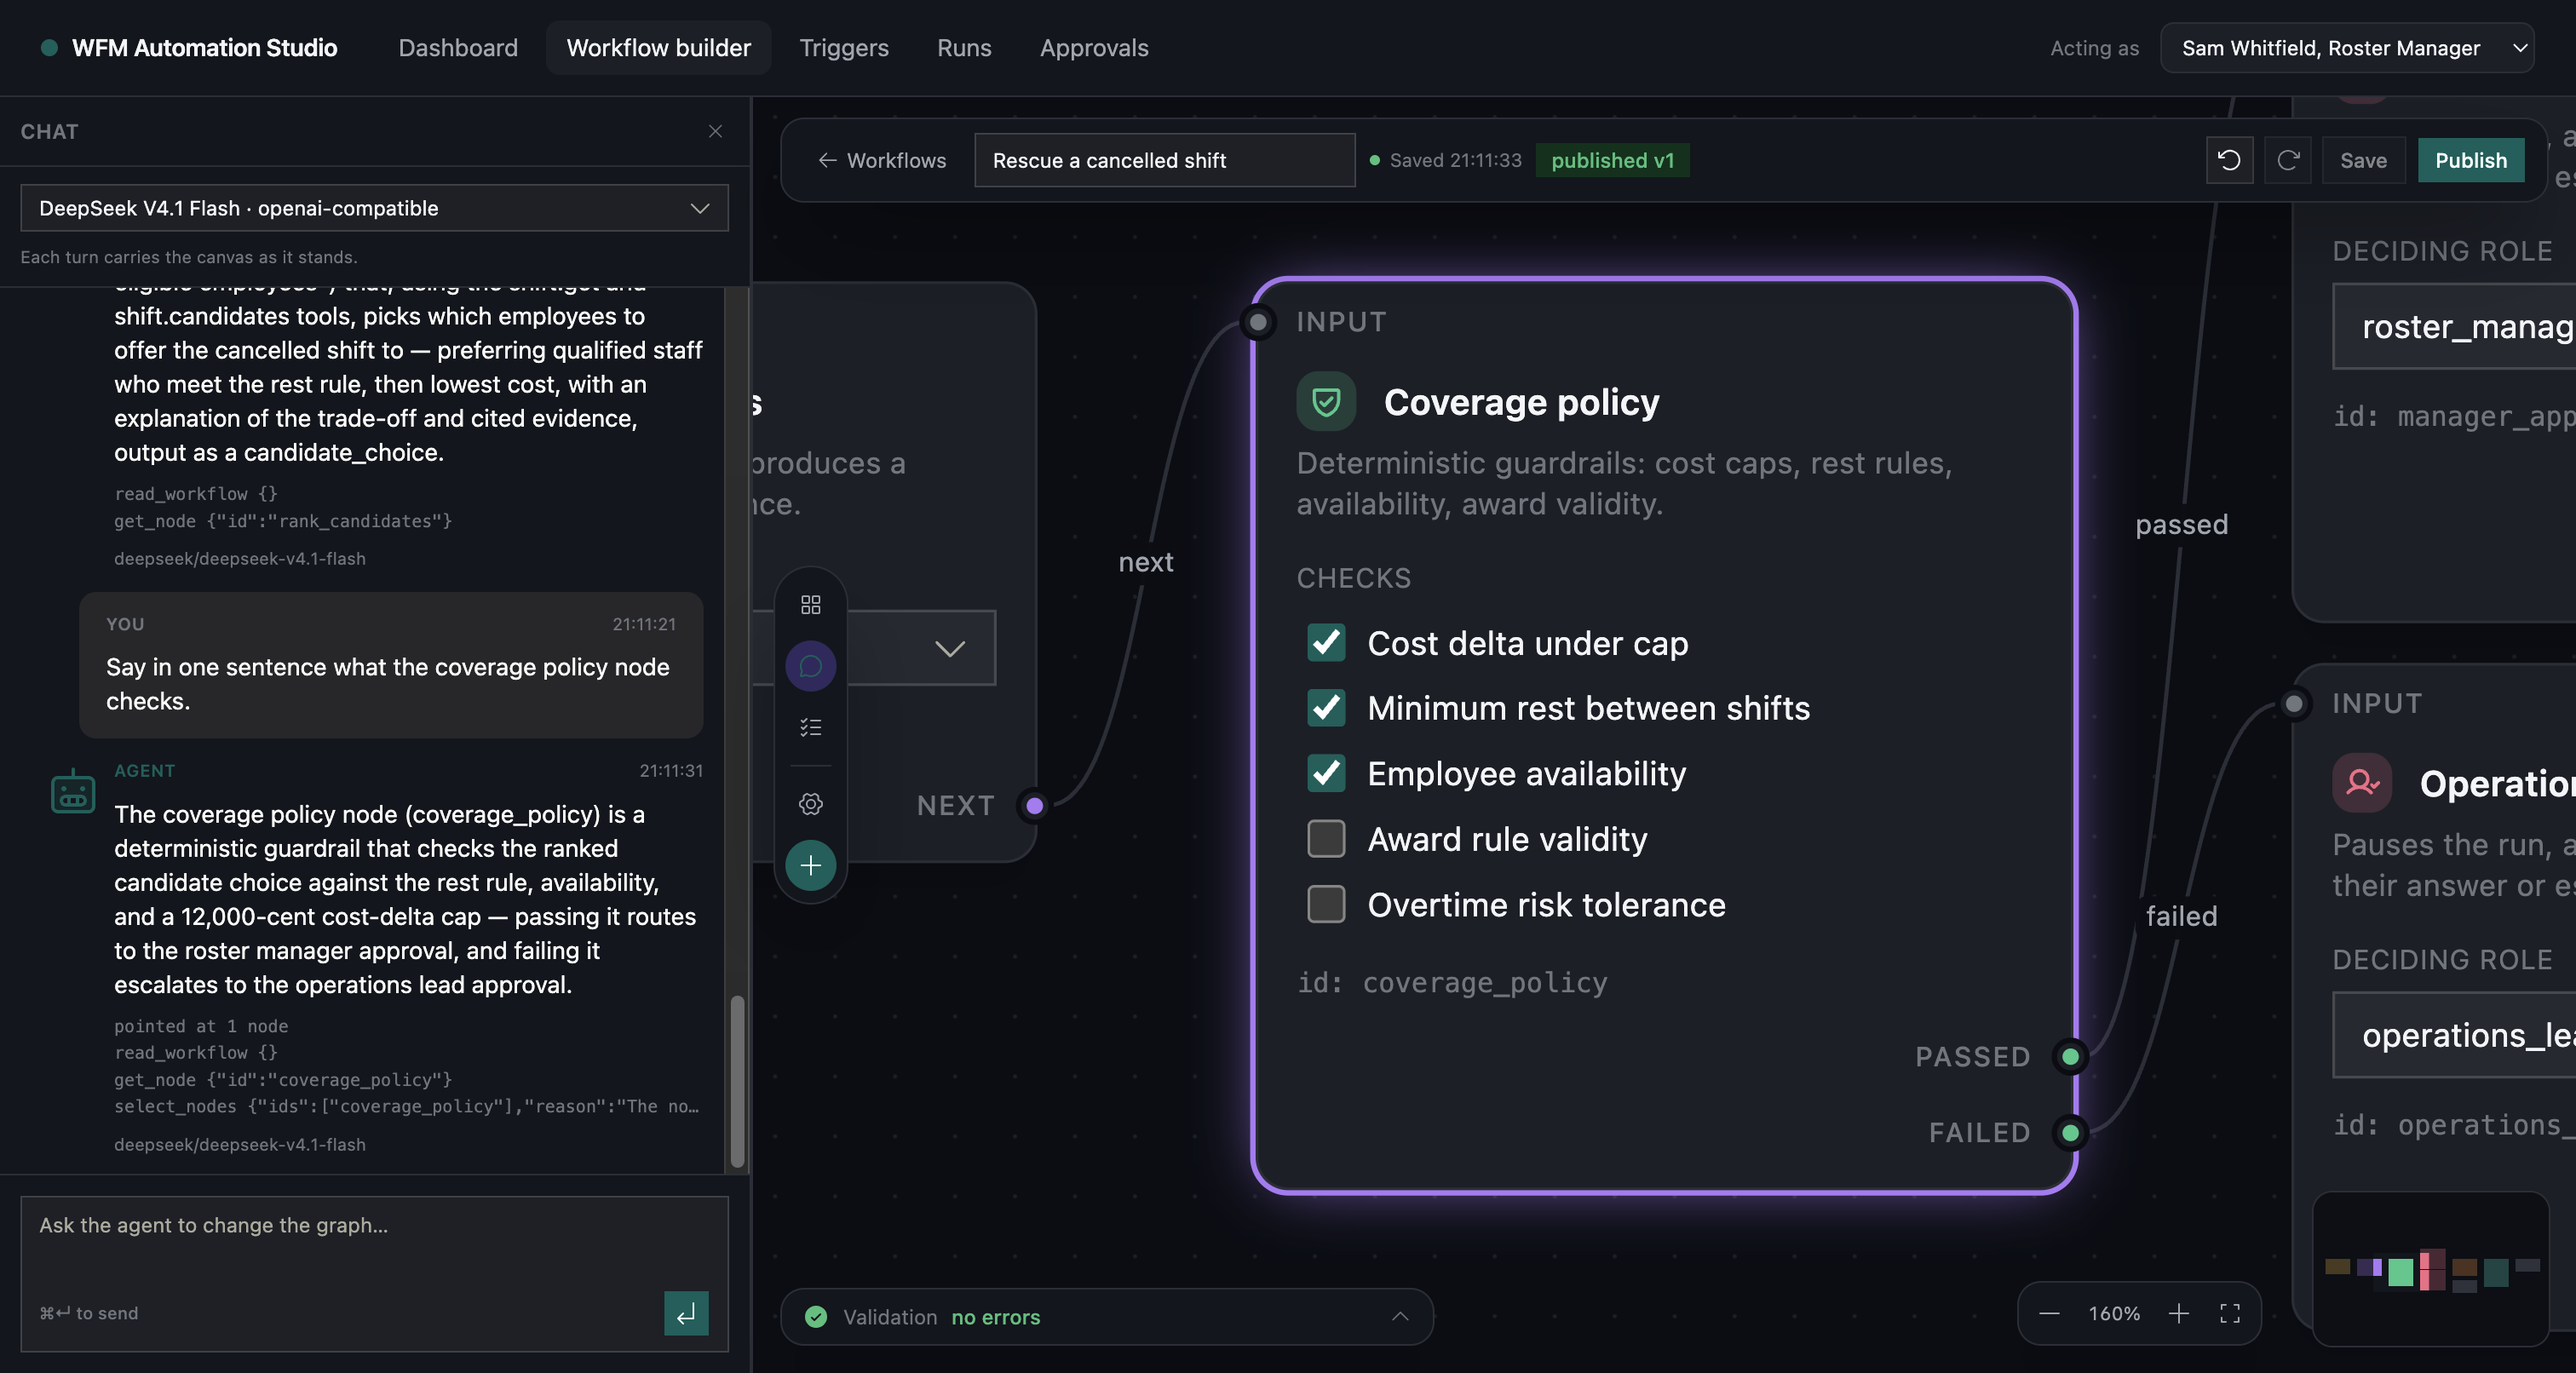
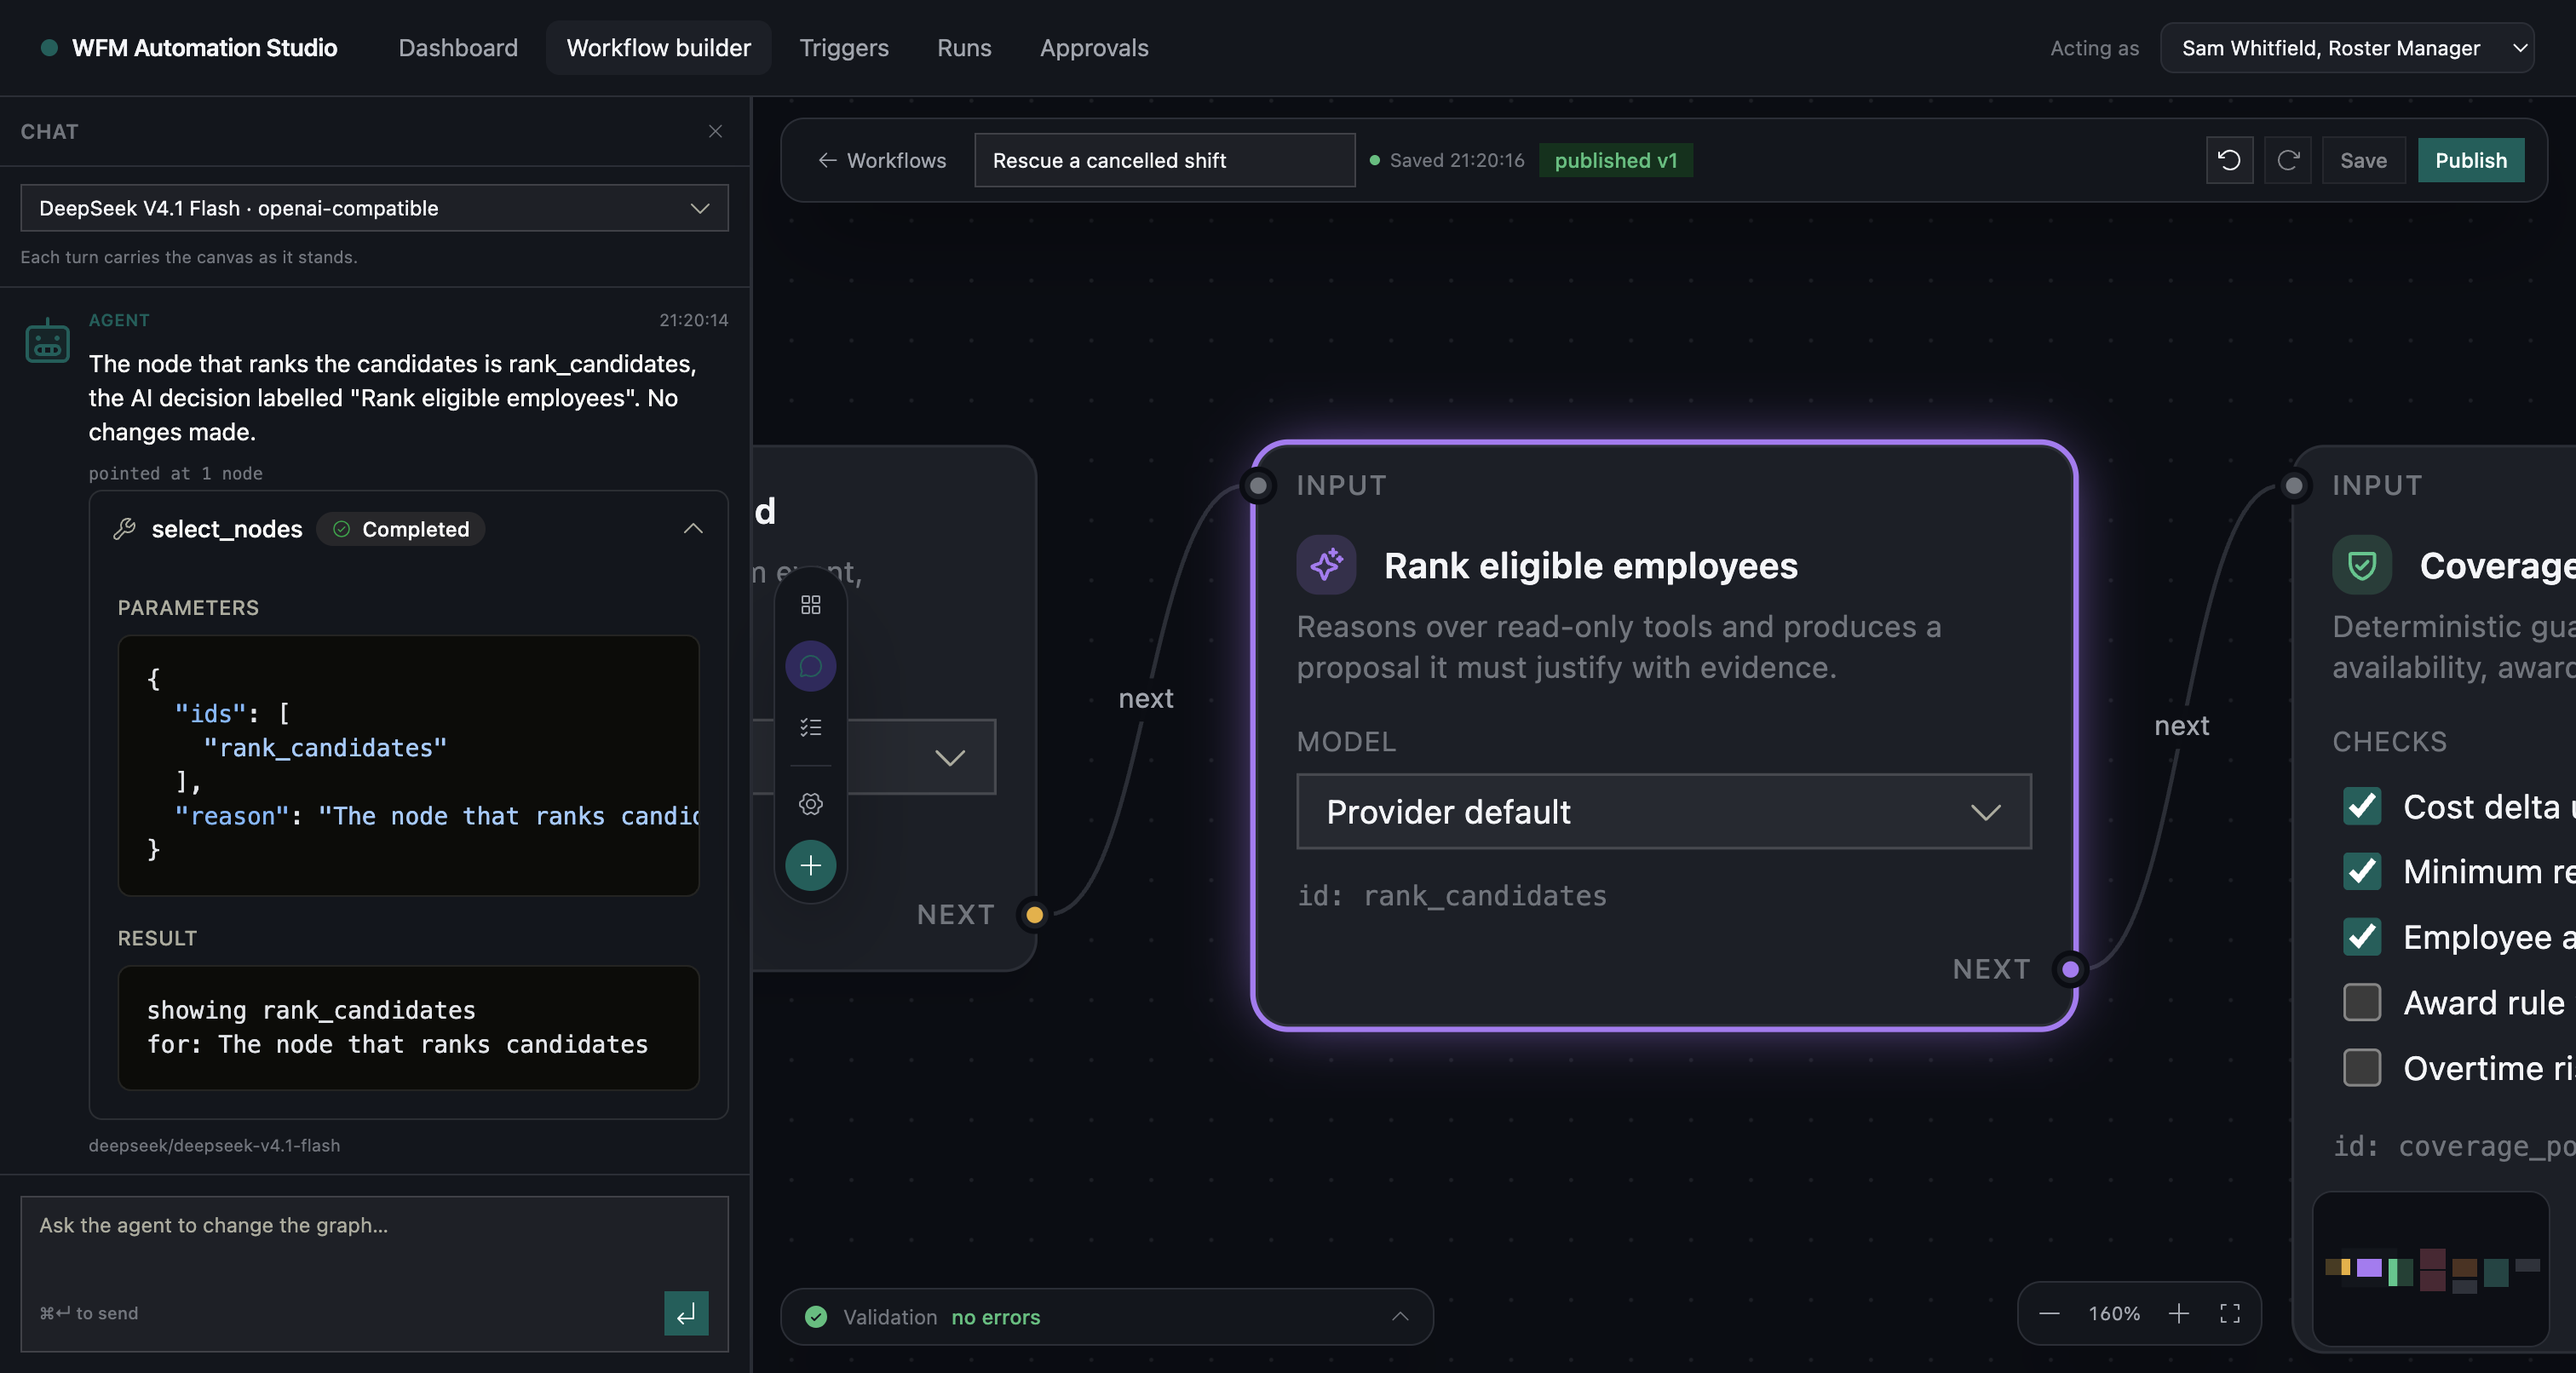
Keep the tool rows openable after the turn
The live turn rendered each call as a row that opens onto its arguments and its
result, and the finished turn fell back to plain text: the calls a turn made
were readable while it ran and gone the moment it answered.

The finished message now carries the calls the live turn collected, so both
render the same rows: the name and its state on the row, the arguments and the
result a click away. Collapsed by default, because a turn that calls a dozen
tools would otherwise push its own answer off the panel; past four calls the
trail is one group that opens onto them.

The calls are read before the update is queued. The setMessages updater runs
after the live turn is cleared, so reading the ref inside it found nothing left
to keep, which is how the first attempt shipped an empty trail.

diff --git a/apps/studio-web/components/builder/chat-panel.tsx b/apps/studio-web/components/builder/chat-panel.tsx
@@ -8,6 +8,7 @@ import type {
   BuilderChatRequest,
   BuilderChatResponse,
   BuilderFocus,
+  BuilderStreamEvent,
   BuilderToolCall,
 } from '@wfm/workflows';
 import { Conversation, ConversationContent, ConversationScrollButton } from '@/components/ai-elements/conversation';
@@ -48,7 +49,8 @@ const STEP_LIMIT = 4;
  * in-memory message rather than being persisted with the conversation.
  */
 interface TurnMessage extends BuilderChatMessage {
-  steps?: readonly string[];
+  /** The calls the turn made, kept from the live turn so the trail stays openable. */
+  calls?: readonly BuilderToolCall[];
   focus?: BuilderFocus;
 }
 
@@ -86,13 +88,18 @@ function AgentRow({ children }: { children: ReactNode }) {
   );
 }
 
-/** A tool call as it happens: what was asked, and what came back. */
+/**
+ * A tool call as it happens and after the turn is over: the name and its state
+ * on the row, the arguments and the result a click away. Collapsed by default,
+ * because a turn that calls a dozen tools would otherwise push its own answer
+ * off the panel.
+ */
 function ToolRow({ call }: { call: BuilderToolCall }) {
   return (
-    <Tool className="mb-0 w-full" defaultOpen>
+    <Tool className="mb-0 w-full">
       <ToolHeader type="dynamic-tool" state={toolState[call.state]} toolName={call.name} />
       <ToolContent>
-        <ToolInput input={call.input} />
+        {call.input !== null && <ToolInput input={call.input} />}
         <ToolOutput errorText={call.error ?? undefined} output={call.output} />
       </ToolContent>
     </Tool>
@@ -117,7 +124,7 @@ function TurnHeader({ role, at }: { role: 'Agent' | 'You'; at?: string }) {
 
 function Turn({ message }: { message: TurnMessage }) {
   const assistant = message.role === 'assistant';
-  const steps = message.steps ?? [];
+  const calls = message.calls ?? [];
   const focus = message.focus === undefined ? null : focusSummary(message.focus);
 
   const content = (
@@ -150,39 +157,32 @@ function Turn({ message }: { message: TurnMessage }) {
             ))}
           </ul>
         )}
-        {assistant && (steps.length > 0 || focus !== null) && (
-          <ul className="flex min-w-0 flex-col gap-0.5 font-mono text-[10px] leading-snug text-[var(--color-ink-faint)]">
+        {assistant && (calls.length > 0 || focus !== null) && (
+          <div className="flex min-w-0 flex-col gap-0.5">
             {focus !== null && (
-              <li className="truncate" title={focus}>
+              <span className="truncate font-mono text-[10px] leading-snug text-[var(--color-ink-faint)]" title={focus}>
                 {focus}
-              </li>
+              </span>
             )}
-            {/* A turn that called a dozen tools would otherwise push its own
-                answer off the panel, so past the limit the trail is a count the
-                author can open when they want the detail. */}
-            {steps.length > STEP_LIMIT ? (
-              <li>
-                <details>
-                  <summary className="cursor-pointer select-none hover:text-[var(--color-ink-muted)]">
-                    {plural(steps.length, 'step')}
-                  </summary>
-                  <ul className="flex min-w-0 flex-col gap-0.5 pt-0.5">
-                    {steps.map((step, index) => (
-                      <li key={`${step}:${index}`} className="truncate" title={step}>
-                        {step}
-                      </li>
-                    ))}
-                  </ul>
-                </details>
-              </li>
+            {/* The same rows the turn showed while it ran, so a call can be
+                opened afterwards to read what it was asked and what it said. */}
+            {calls.length > STEP_LIMIT ? (
+              <details>
+                <summary className="cursor-pointer font-mono text-[10px] leading-snug text-[var(--color-ink-faint)] select-none hover:text-[var(--color-ink-muted)]">
+                  {plural(calls.length, 'step')}
+                </summary>
+                <div className="flex min-w-0 flex-col gap-0.5 pt-1">
+                  {calls.map((call) => (
+                    <ToolRow key={call.id} call={call} />
+                  ))}
+                </div>
+              </details>
             ) : (
-              steps.map((step, index) => (
-                <li key={`${step}:${index}`} className="truncate" title={step}>
-                  {step}
-                </li>
+              calls.map((call) => (
+                <ToolRow key={call.id} call={call} />
               ))
             )}
-          </ul>
+          </div>
         )}
         {assistant && message.model !== null && (
           <span className="text-[10px] text-[var(--color-ink-faint)]">{message.model}</span>
@@ -248,6 +248,20 @@ export function ChatPanel({
   const headersRef = useRef(headers);
   headersRef.current = headers;
   const inFlightRef = useRef<AbortController | null>(null);
+  /** The live turn, readable from the stream callback without a stale render. */
+  const liveRef = useRef<LiveTurn | null>(null);
+
+  const pushLive = (event: BuilderStreamEvent): void => {
+    const next = applyStreamEvent(liveRef.current ?? emptyLiveTurn, event);
+    liveRef.current = next;
+    setLive(next);
+  };
+
+  const clearLive = (): void => {
+    liveRef.current = null;
+    setLive(null);
+  };
+
   /** A send that lands before the history read does not get overwritten by it. */
   const sentRef = useRef(false);
 
@@ -338,6 +352,7 @@ export function ChatPanel({
       ]);
       setError(null);
       setLive(emptyLiveTurn);
+      liveRef.current = emptyLiveTurn;
       setSending(true);
 
       const controller = new AbortController();
@@ -353,12 +368,15 @@ export function ChatPanel({
           (event) => {
             if (event.type === 'focus') {
               onFocus(event.focus);
-              setLive((previous) => (previous === null ? previous : applyStreamEvent(previous, event)));
+              pushLive(event);
               return;
             }
             if (event.type === 'done') {
               finished = true;
               const response = event.response;
+              // Read before the update is queued: the updater runs after the
+              // live turn is cleared, so it would find nothing left to keep.
+              const calls = liveRef.current?.calls ?? [];
               setMessages((previous) => [
                 ...previous,
                 {
@@ -369,7 +387,7 @@ export function ChatPanel({
                   model: response.model,
                   applied: response.applied,
                   rejected: response.rejected,
-                  steps: response.steps,
+                  calls,
                   focus: response.focus,
                 },
               ]);
@@ -378,26 +396,26 @@ export function ChatPanel({
                 response.diagnostics,
                 response.focus,
               );
-              setLive(null);
+              clearLive();
               return;
             }
             if (event.type === 'error') {
               setError(event.message);
-              setLive(null);
+              clearLive();
               return;
             }
-            setLive((previous) => applyStreamEvent(previous ?? emptyLiveTurn, event));
+            pushLive(event);
           },
           controller.signal,
         );
         if (!finished && !controller.signal.aborted) {
           setError('The turn ended before the agent answered.');
-          setLive(null);
+          clearLive();
         }
       } catch (cause) {
         // A stop the reader asked for is not a failure to report.
         if (!controller.signal.aborted) setError(failureLine(cause));
-        setLive(null);
+        clearLive();
       } finally {
         // A turn that was stopped and replaced must not clear the new one's state.
         if (inFlightRef.current === controller) {

diff --git a/README.md b/README.md
@@ -82,7 +82,7 @@ totals are compared against the `llm_calls` rows, not against a number the engin
 - **Steering, not just approving.** A decision carries three things: the decision routes the graph, the reason goes to the audit trail, and the feedback becomes the next human message in the run. Downstream AI nodes decide with the approver's instruction in front of them, and `{{run.feedback}}` lets an artifact quote it. Steering is advice, never authority: it changes what a model prefers, not what a policy check permits.
 - **A workflow you can describe.** The builder has a chat panel beside the canvas, and the agent behind it works the way an engineer would: it has tools to read the graph, read the node-kind catalogue with each kind's legal configuration, read the trigger's data, add, update, move, connect and disconnect nodes, and point the canvas at what it means. It is a Deep Agents harness with a real tool loop, so a turn that adds a node reads the graph back to check its own work before answering. The model still does not write a definition: the write tools collect operations from a closed set, and one applier validates them against the same kind declarations the canvas uses. A bad call is refused with the legal alternatives named, an unfinished graph is reported as not valid yet, and the client sends its current graph every turn, so the agent reasons about what is on screen, including nodes you dragged.
 - **An agent whose work you can see, while it works.** The turn streams: prose as the model writes it, and each tool call the moment it is asked for and again when it answers, with the arguments and the result. The canvas reacts to a focus request mid-turn, so the graph is already framed on the nodes under discussion before the reply finishes. The transport is ours, SSE over `fetch`, the same pattern the run stream uses; the chat components are AI Elements, used as presentation only.
-- **A trail under every reply.** A finished turn leaves the tool calls it made with their arguments, and a line saying what it pointed at. When a turn asks the canvas to point at nodes, the canvas frames them and rings them without selecting them, so the inspector stays shut and your next click takes the canvas back. Past four tool calls the trail collapses to a count, because a fourteen-call turn would otherwise push its own answer off the panel.
+- **A trail you can open.** A finished turn keeps the same rows it showed while it ran: each call with its name, its state, and the arguments and result a click away. Past four calls the trail becomes one group you can open, so a fourteen-call turn does not push its own answer off the panel. When a turn asks the canvas to point at nodes, the canvas frames them and rings them without selecting them, so the inspector stays shut and your next click takes the canvas back. Past four tool calls the trail collapses to a count, because a fourteen-call turn would otherwise push its own answer off the panel.
 - **A conversation that stays inside its budget.** The turn above made 14 model calls and cost 137k input tokens, most of them tool results the agent had already read. The agent summarizes its own history once the conversation passes a token threshold and keeps the recent exchanges, so the twelfth turn does not pay for the first. Summary calls are ordinary model calls: they land in the same accounting table as everything else.
 - **A builder that gets out of the way.** The graph owns the screen. The component list, the agent conversation, the node inspector, the validation log, and the zoom control all float over it, and the components panel is closed until you ask for it. Each node card carries its kind's icon, name, one-line purpose, the fields that matter for that kind editable in place, and one labelled row per port with the handle on the card's edge.
 
